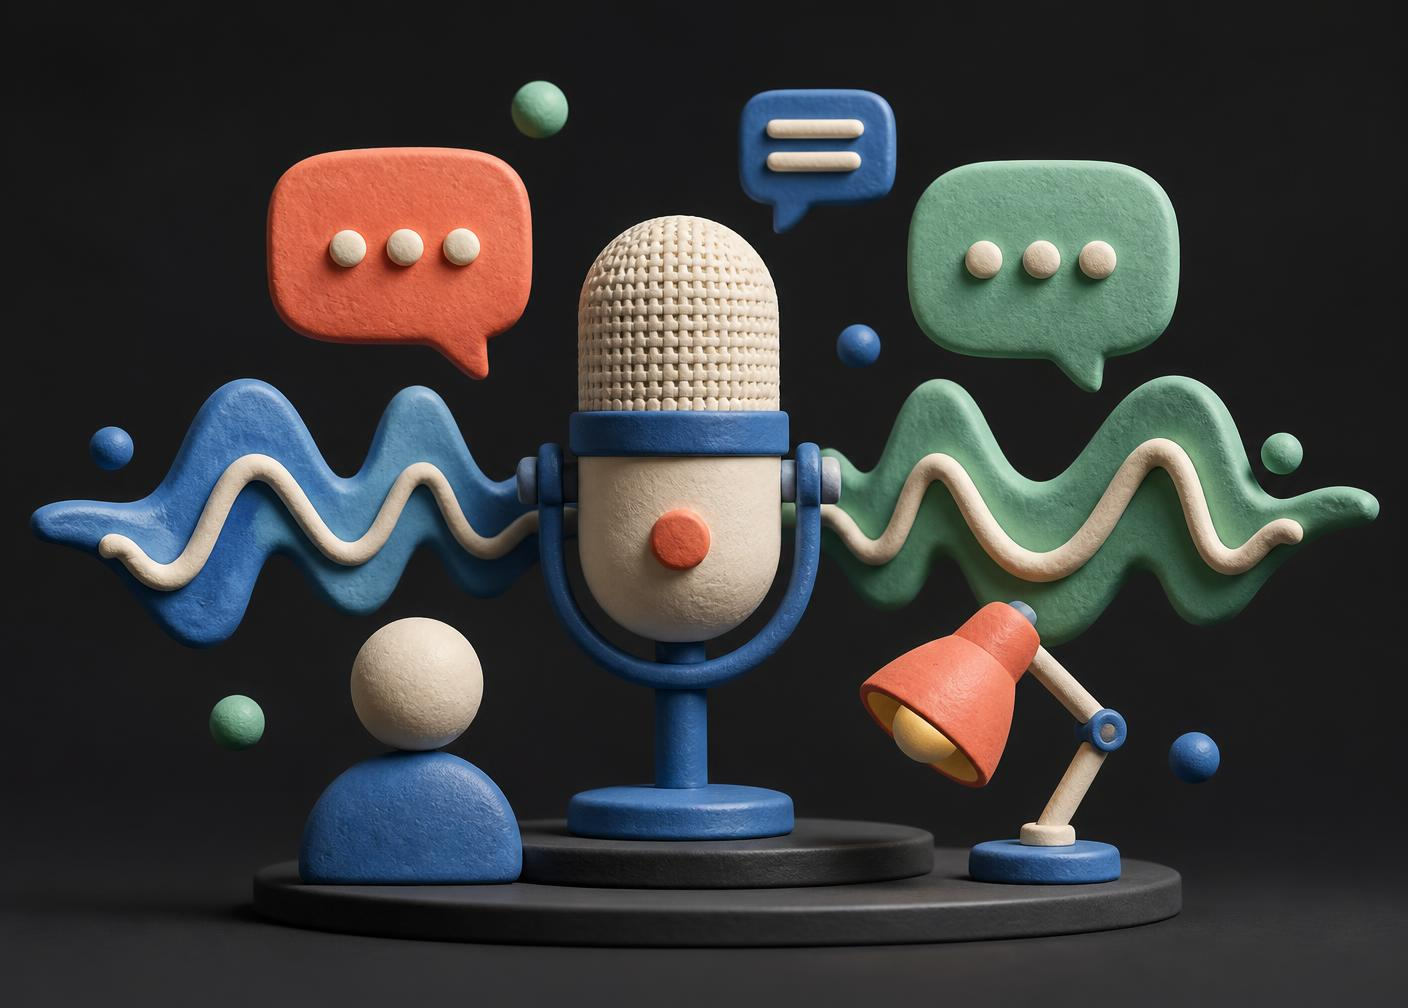
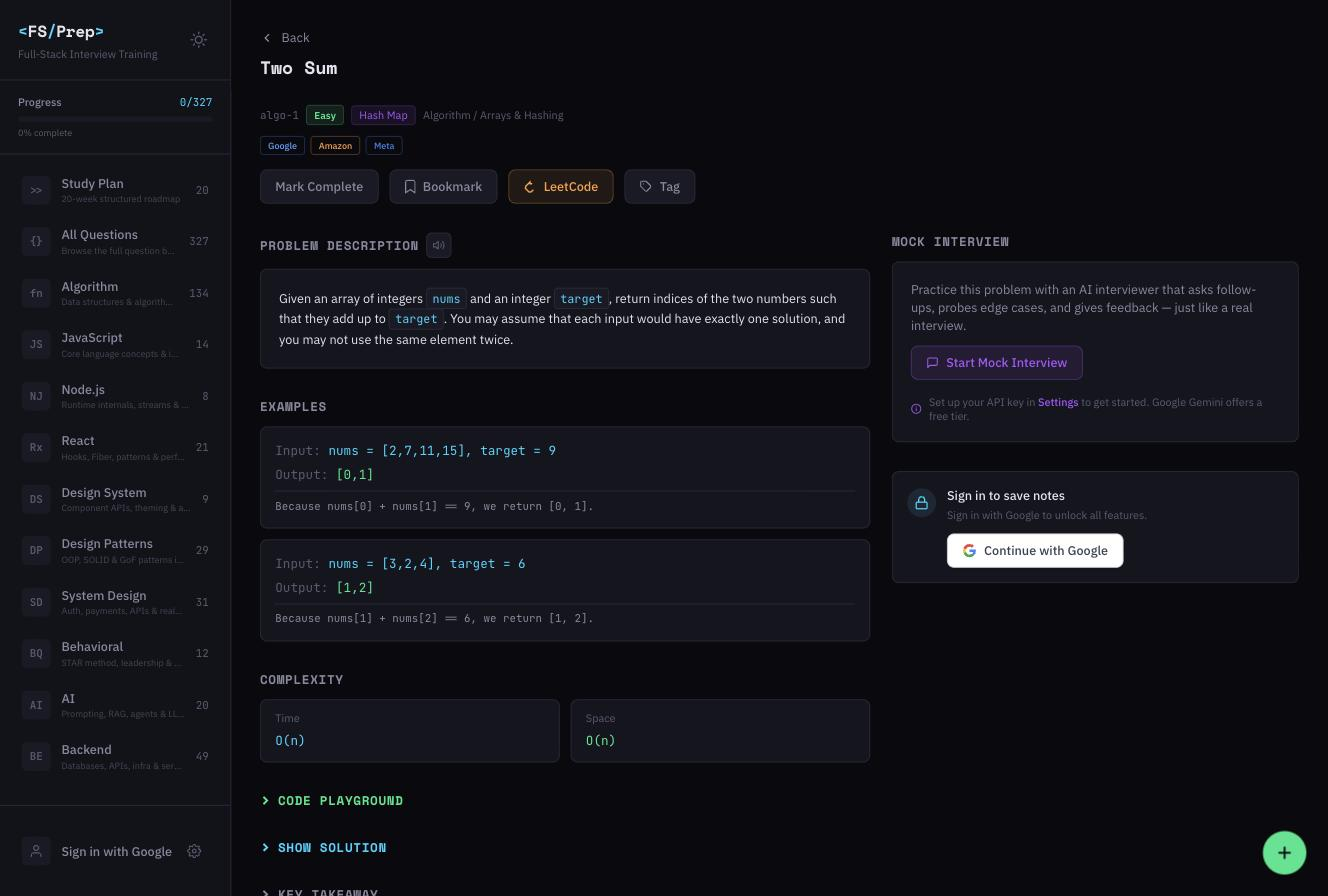
feat: update screenshot

diff --git a/src/App.tsx b/src/App.tsx
@@ -4,6 +4,7 @@ import './App.css'
 interface AppLink {
   name: string
   tagline: string
+  aiFeature: string
   href: string
   image: string
   accent: string
@@ -12,7 +13,8 @@ interface AppLink {
 const APPS: AppLink[] = [
   {
     name: 'Voca',
-    tagline: 'Learn vocabulary through fun games.',
+    tagline: 'A playful vocabulary game. Guess words, drag them into stories, speak them out loud.',
+    aiFeature: 'AI writes the clues, dialogues, and stories, and doubles as a voice tutor for speaking practice.',
     href: 'https://v.trile.site',
     image: '/art/vocalearn.jpg',
     accent: 'var(--coral)',
@@ -20,13 +22,15 @@ const APPS: AppLink[] = [
   {
     name: 'Dreamer',
     tagline: 'Build habits and track your day, one checklist at a time.',
+    aiFeature: 'Type what you want to build and AI turns it into a full checklist with fields, schedule, and notes.',
     href: 'https://d.trile.site',
     image: '/art/dreamer.jpg',
     accent: 'var(--mint)',
   },
   {
     name: 'Interview Prep',
-    tagline: 'Frontend interview practice with English speaking practice.',
+    tagline: '327 frontend interview questions with a built-in code runner and study plan.',
+    aiFeature: 'Practice with an AI interviewer that asks follow-ups, probes edge cases, and gives real feedback.',
     href: 'https://i.trile.site',
     image: '/art/interview-prep.jpg',
     accent: 'var(--cobalt)',
@@ -54,9 +58,10 @@ function SparklesIcon() {
   )
 }
 
-function ArrowUpRightIcon() {
+function ArrowUpRightIcon({ className }: { className?: string }) {
   return (
     <svg
+      className={className}
       width="20"
       height="20"
       viewBox="0 0 24 24"
@@ -140,10 +145,10 @@ function App() {
             <div className="card-art">
               <img
                 src={app.image}
-                alt={`Playful sculptural artwork representing ${app.name}`}
+                alt={`Screenshot of the ${app.name} app`}
                 loading="eager"
-                width={1408}
-                height={1008}
+                width={1328}
+                height={896}
               />
               <div className="image-sheen" aria-hidden="true" />
               <span className="card-number">{String(i + 1).padStart(2, '0')}</span>
@@ -151,7 +156,10 @@ function App() {
             <div className="card-copy">
               <h2>{app.name}</h2>
               <p>{app.tagline}</p>
-              <ArrowUpRightIcon />
+              <p className="card-ai">
+                <SparklesIcon /> {app.aiFeature}
+              </p>
+              <ArrowUpRightIcon className="card-arrow" />
             </div>
           </a>
         ))}

diff --git a/src/App.css b/src/App.css
@@ -288,8 +288,8 @@ a {
   transform: translate(120%);
 }
 
-.project-card:hover .card-copy svg,
-.project-card:focus-visible .card-copy svg {
+.project-card:hover .card-arrow,
+.project-card:focus-visible .card-arrow {
   transform: translate(0.2rem, -0.2rem);
 }
 
@@ -303,7 +303,7 @@ a {
   width: 100%;
   height: 100%;
   object-fit: cover;
-  object-position: center;
+  object-position: top;
   transition: transform 0.7s cubic-bezier(0.16, 1, 0.3, 1), filter 0.35s;
 }
 
@@ -350,7 +350,24 @@ a {
   line-height: 1.35;
 }
 
-.card-copy svg {
+.card-ai {
+  display: flex;
+  align-items: flex-start;
+  gap: 0.35rem;
+  margin-top: 0.5rem !important;
+  color: var(--project-accent);
+  font-size: clamp(0.62rem, 0.82vw, 0.78rem);
+  line-height: 1.35;
+}
+
+.card-ai svg {
+  flex-shrink: 0;
+  width: 0.85em;
+  height: 0.85em;
+  margin-top: 0.2em;
+}
+
+.card-arrow {
   position: absolute;
   top: 1rem;
   right: 1rem;
@@ -464,7 +481,7 @@ a {
   .availability i,
   .card-art img,
   .image-sheen,
-  .card-copy svg,
+  .card-arrow,
   .intro-curtain span {
     transition: none !important;
     animation: none !important;
